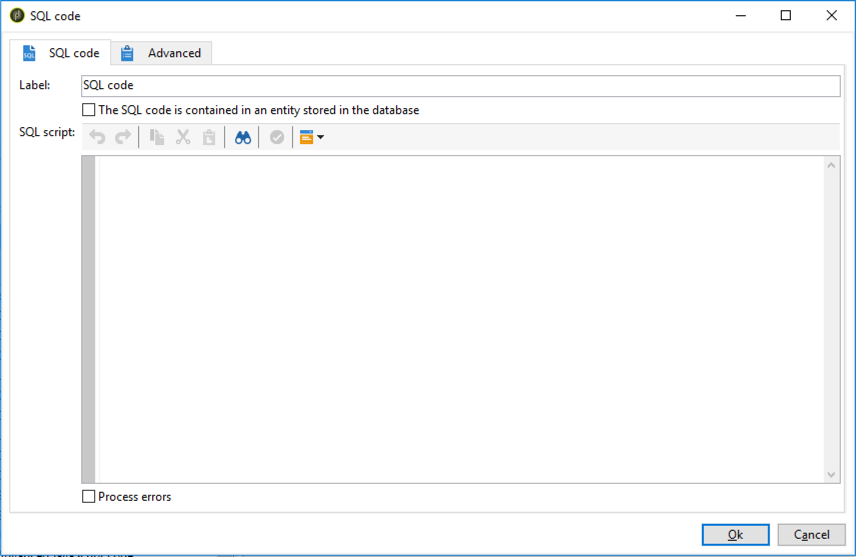
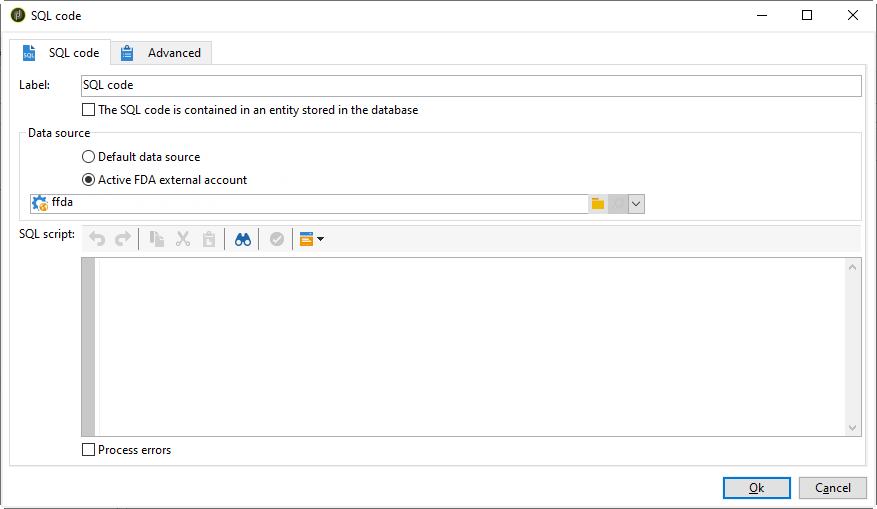
in progress

Changed region(s): [[0.0, 0.0, 1.0, 1.0]]

diff --git a/help/workflow/using/sql-code-and-javascript-code.md b/help/workflow/using/sql-code-and-javascript-code.md
@@ -21,7 +21,12 @@ An **[!UICONTROL SQL code]** activity executes an SQL script. The script is a JS
 
     SQL scripts must be created and stored in the **[!UICONTROL Administration]** / **[!UICONTROL Configuration]** / **[!UICONTROL SQL scripts]** menu.
 
-1. 
+1. Choose in which database the SQL script will be stored:
+
+    * Default data source: Working table is created in the same database as the source of the data we query on.
+    * Activte FDA external account 
+
+    ![](assets/sql_code.png)
 
 1. Add the SQL script. This script is a JST template and can therefore be configured according to the workflow context.
 
